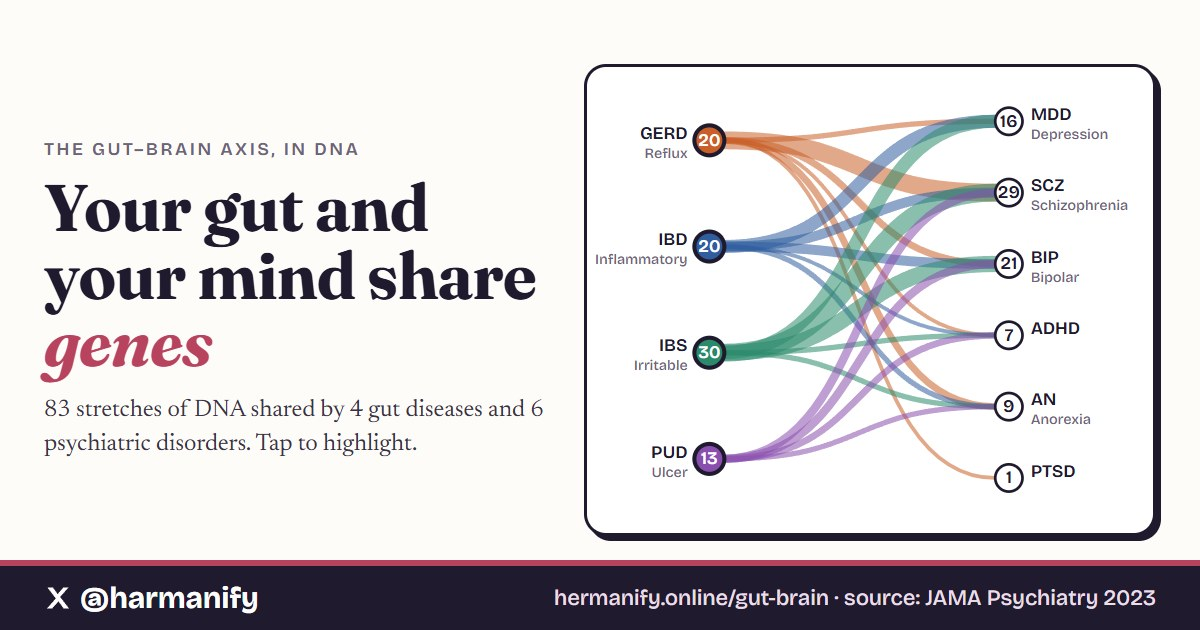
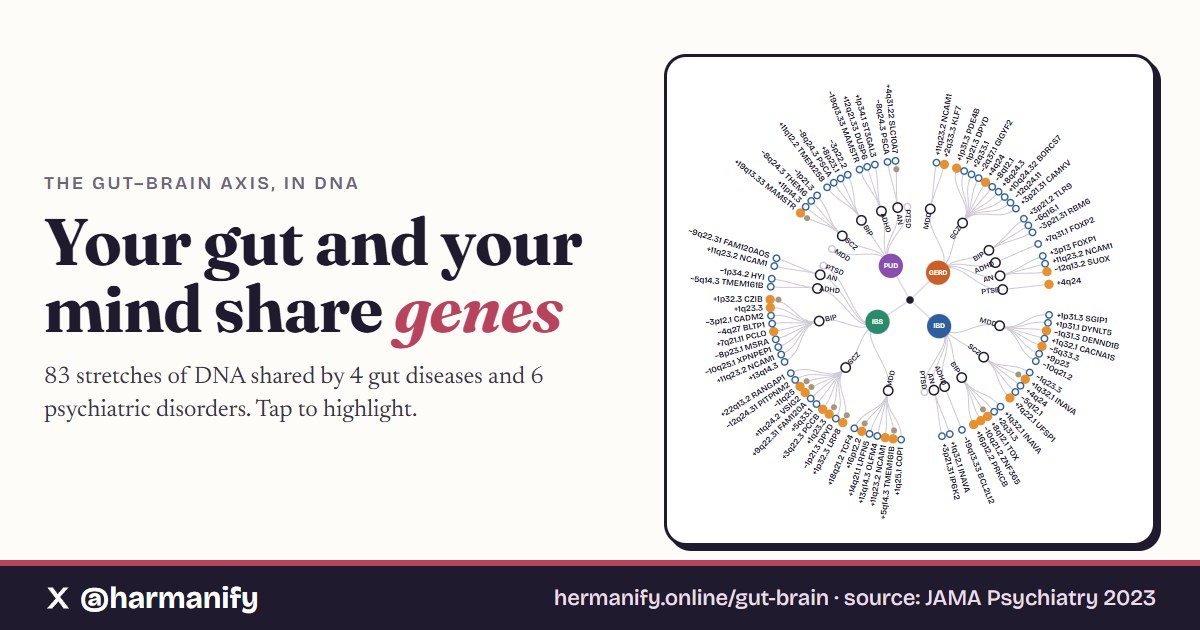
Gut-Brain Genome: show the ring on the portfolio card and link preview; cache-bust data

diff --git a/index.html b/index.html
@@ -1445,7 +1445,7 @@
                     </div>
                 </a>
                 <a class="lab-feature" href="/gut-brain/">
-                    <div class="lab-art"><img src="assets/previews/gut-brain.webp" alt="Four gut diseases on the left joined by coloured lines to six psychiatric disorders on the right, thicker where they share more DNA" width="1056" height="874" loading="lazy" decoding="async"/></div>
+                    <div class="lab-art"><img src="assets/previews/gut-brain.webp" alt="Ring diagram: four gut diseases at the centre branching to six psychiatric disorders and 83 shared loci around the edge" width="1216" height="1222" loading="lazy" decoding="async"/></div>
                     <div class="lab-body">
                         <div class="lab-meta"><span class="chip-new">New</span><span>Interactive · Genetics · Nov 2026</span></div>
                         <h3>The Gut–Brain <span class="serif-em">Genome</span></h3>

diff --git a/gut-brain/index.html b/gut-brain/index.html
@@ -165,7 +165,7 @@ summary{font:700 15px 'Bricolage Grotesque',sans-serif;cursor:pointer}
     <p style="margin-top:16px" class="ui">By Herman Hundal · <a href="https://x.com/harmanify" target="_blank" rel="noopener">@harmanify</a></p>
   </div>
 </div>
-<script src="data.js"></script>
+<script src="data.js?v=2"></script>
 <script>
 const G=window.GB, GUT=['GERD','IBD','IBS','PUD'], PSY=['MDD','SCZ','BIP','ADHD','AN','PTSD'];
 const GN={GERD:'Acid reflux',IBD:'Inflammatory bowel',IBS:'Irritable bowel',PUD:'Peptic ulcer'};
